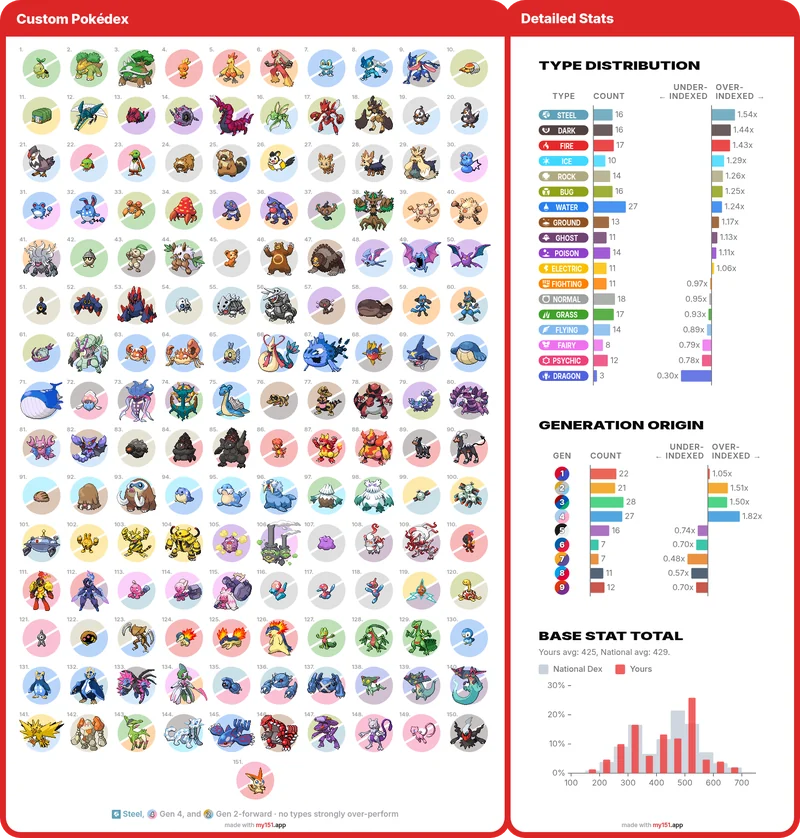
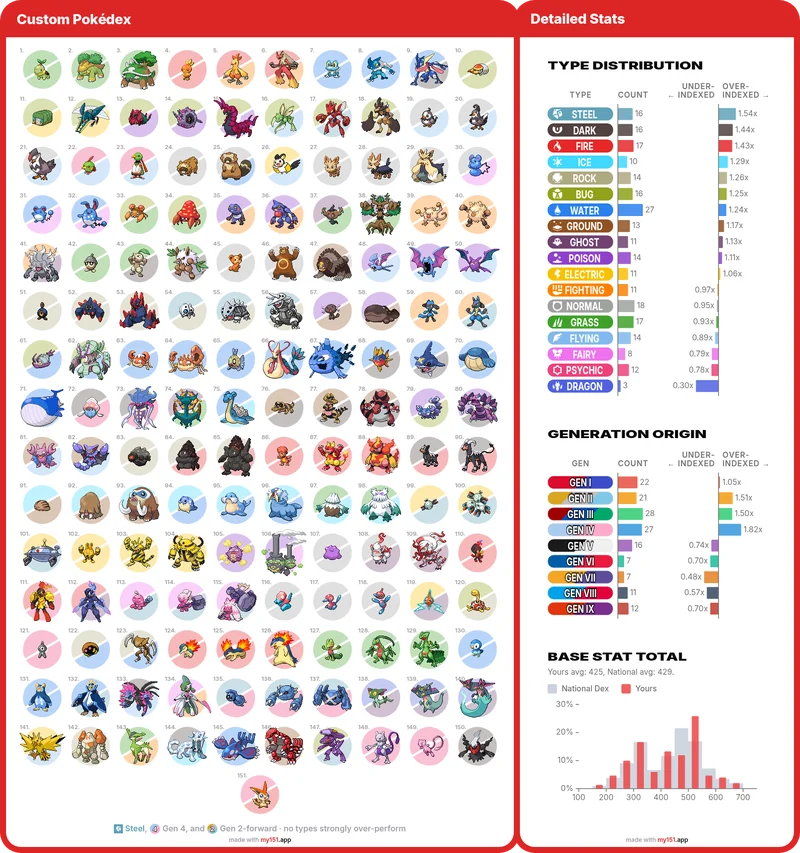
Refresh detailed export artwork with final chart badges

diff --git a/src/components/pokedex/IntroCard.tsx b/src/components/pokedex/IntroCard.tsx
@@ -133,7 +133,7 @@ const SHOT_SRCSETS = [
 const SHOT_DIMS = [
   { width: 390, height: 620 },
   { width: 348, height: 620 },
-  { width: 555, height: 640 },
+  { width: 555, height: 653 },
 ] as const;
 
 /** Parallel to SHOT_SRCS. These three screenshots show the product's progression
